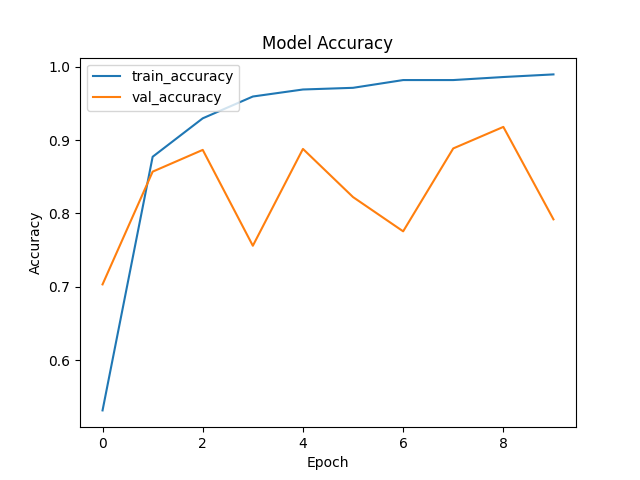
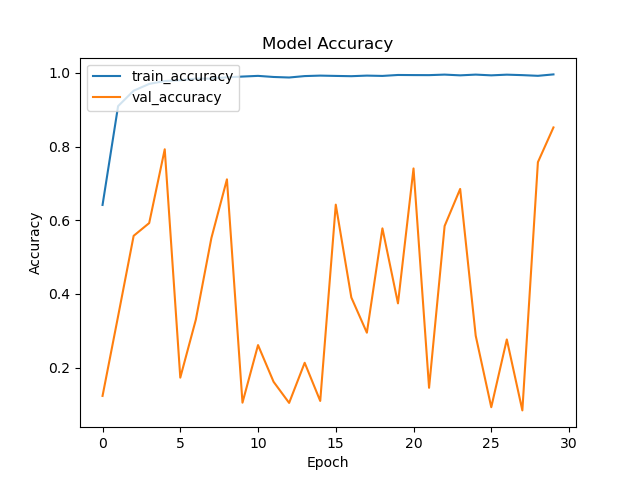
update final result

diff --git a/EfficientNetB0/EfficientNetB0.py b/EfficientNetB0/EfficientNetB0.py
@@ -31,7 +31,9 @@ CURRENT_HOME_PATH = os.path.dirname(CURRENT_DIR_PATH)
 # 設定
 image_size = (224, 224)
 batch_size = 16
-epochs = 10
+epochs = 50#50 better
+target_val_accuracy = 0.819  # 設定目標驗證準確度 better
+
 
 # 讀取 name.txt 和 query.txt
 with open(CURRENT_HOME_PATH + f"/name.txt", "r") as f:
@@ -91,7 +93,7 @@ test_ds = (
 
 # 模型架構
 input_shape = (image_size[0], image_size[1], 3)
-feature_model = tf.keras.applications.efficientnet_v2.EfficientNetV2B0(
+feature_model = tf.keras.applications.EfficientNetB0(
     include_top=False,
     weights="imagenet",
     input_shape=input_shape,
@@ -116,8 +118,22 @@ model.compile(
     metrics=["accuracy"],
 )
 
-# 模型訓練
-history = model.fit(train_ds, epochs=epochs, validation_data=test_ds)
+# 自定義 Callback better
+class StopTrainingOnAccuracy(tf.keras.callbacks.Callback):
+    def __init__(self, target_accuracy):
+        super().__init__()
+        self.target_accuracy = target_accuracy
+
+    def on_epoch_end(self, epoch, logs=None):
+        val_acc = logs.get("val_accuracy")
+        if val_acc is not None and val_acc >= self.target_accuracy:
+            print(f"\n驗證準確度達到 {val_acc:.2f}，訓練停止。")
+            self.model.stop_training = True
+
+
+# 模型訓練 better 加入暫停
+callbacks = [StopTrainingOnAccuracy(target_accuracy=target_val_accuracy)]
+history = model.fit(train_ds, epochs=epochs, validation_data=test_ds, callbacks=callbacks)
 
 # 儲存模型
 model.save(filepath=CURRENT_DIR_PATH + f"/model/", overwrite=True, save_format="tf")
